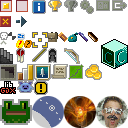
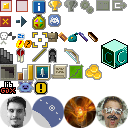
Added myself to the credits.

Changed region(s): [[0.0, 0.75, 0.25, 1.0], [0.25, 0.0938, 0.5, 0.25]]

diff --git a/core/src/main/java/com/shatteredpixel/yasd/general/scenes/AboutScene.java b/core/src/main/java/com/shatteredpixel/yasd/general/scenes/AboutScene.java
@@ -45,6 +45,8 @@ import com.watabou.utils.DeviceCompat;
 
 public class AboutScene extends PixelScene {
 
+	public static final String DISCORD_LINK = "https://discord.gg/wEaQyTj";
+
 	@Override
 	public void create() {
 		super.create();
@@ -61,6 +63,45 @@ public class AboutScene extends PixelScene {
 		Component content = list.content();
 		content.clear();
 
+		//*** YASD Credits ***
+
+		CreditsBlock YASD = new CreditsBlock(true, Window.SHPX_COLOR,
+				"Yet Another Shattered Dungeon",
+				Icons.YENDOR.get(),
+				"Developed by: _Samuel Braithwaite_\nBased on Shattered Pixel Dungeon's open source",
+				"Discord Server",
+				DISCORD_LINK);
+		YASD.setRect((w - fullWidth)/2f, 6, 120, 0);
+		content.add(YASD);
+
+		CreditsBlock testers = new CreditsBlock(false, Window.SHPX_COLOR,
+				"Beta testing:",
+				Icons.DISCORD.get(),
+				"All the users on my Discord server have helped with beta testing",
+				"Discord Server",
+				DISCORD_LINK);
+		testers.setSize(colWidth/2f, 0);
+		if (landscape()){
+			testers.setPos(YASD.right(), YASD.top() + (YASD.height() - testers.height())/2f);
+		} else {
+			testers.setPos(w/2f - colWidth/2f, YASD.bottom()+5);
+		}
+		content.add(testers);
+
+		CreditsBlock assets = new CreditsBlock(true,
+				Window.TITLE_COLOR,
+				"Assets for Yet Another Shattered Dungeon",
+				null,
+				"Most of the assets are inherited from Shattered Pixel Dungeon" +
+						"\nAll of the soundtracks not in Shattered were made by the developer" +
+						"\nA few of the sprites, such as Wand of Flow, are also made by the developer" +
+						"\nMost original graphics are made by the user _Ømicrónrg9_ from my Discord server, as well as a few by other members" +
+						"\nVarious images and inspiration are also taken from _Yet Another Pixel Dungeon_",
+				null,
+				null);
+		assets.setRect(0, YASD.bottom() + 8, fullWidth, 0);
+		content.add(assets);
+
 		//*** Shattered Pixel Dungeon Credits ***
 
 		CreditsBlock shpx = new CreditsBlock(true, Window.SHPX_COLOR,
@@ -69,8 +110,10 @@ public class AboutScene extends PixelScene {
 				"Developed by: _Evan Debenham_\nBased on Pixel Dungeon's open source",
 				"ShatteredPixel.com",
 				"https://ShatteredPixel.com");
-		shpx.setRect((w - fullWidth)/2f, 6, 120, 0);
+		shpx.setRect((w - fullWidth)/2f, assets.bottom() + 8, 120, 0);
 		content.add(shpx);
+
+		addLine(shpx.top() - 4, content);
 
 		CreditsBlock alex = new CreditsBlock(false, Window.SHPX_COLOR,
 				"Hero Art & Design:",

diff --git a/core/src/main/java/com/shatteredpixel/yasd/general/ui/DiscordButton.java b/core/src/main/java/com/shatteredpixel/yasd/general/ui/DiscordButton.java
@@ -29,6 +29,7 @@ package com.shatteredpixel.yasd.general.ui;
 
 import com.shatteredpixel.yasd.general.Assets;
 import com.shatteredpixel.yasd.general.messages.Messages;
+import com.shatteredpixel.yasd.general.scenes.AboutScene;
 import com.shatteredpixel.yasd.general.scenes.PixelScene;
 import com.shatteredpixel.yasd.general.scenes.TitleScene;
 import com.shatteredpixel.yasd.general.windows.WndOptions;
@@ -76,7 +77,7 @@ public class DiscordButton extends Button {
 				Messages.get(TitleScene.class, "discord_button")){
 			@Override
 			protected void onSelect(int index) {
-				DeviceCompat.openURI("https://discord.gg/wEaQyTj");
+				DeviceCompat.openURI(AboutScene.DISCORD_LINK);
 			}
 		};
 		parent.add(wnd);
